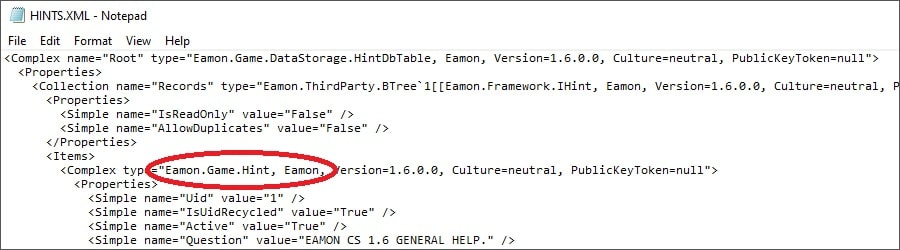
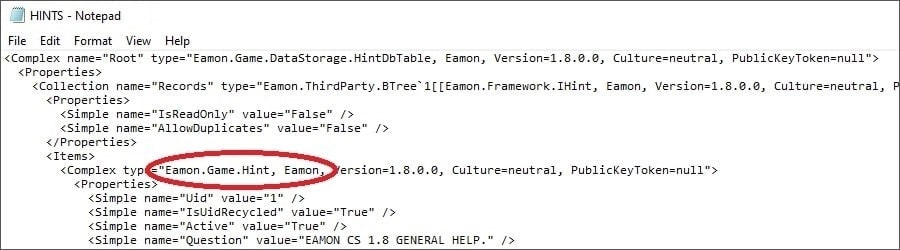
Reworking documentation to reflect Eamon CS 1.8.0 changes.

diff --git a/pages/TechnicalPaper/TechnicalPaper.html b/pages/TechnicalPaper/TechnicalPaper.html
@@ -141,7 +141,7 @@
       Manager is what "executes" the plugin, not the calling C#
       environment.&nbsp; At the bottom of the software stack, you have
       Polenter.SharpSerializer.dll which handles loading and saving of the
-      game's textfiles and Eamon.dll which holds code common to all ECS
+      game's datafiles and Eamon.dll which holds code common to all ECS
       plugins.&nbsp; EamonRT.dll contains the vanilla game engine used by all
       non-customized adventures.&nbsp; For customized adventures, the game
       plugin (e.g., TheBeginnersCave.dll) contains custom code specific to that
@@ -153,8 +153,8 @@
     <p>The source code for Plugin Managers and system plugins resides in the
       appropriate directory under System; for adventures, it is in the
       adventure-specific directory under Adventures.</p>
-    <p>The Main Hall textfiles reside in System\Bin, making them easily
-      accessible to all plugins.&nbsp; Game-specific textfiles (both original
+    <p>The Main Hall datafiles reside in System\Bin, making them easily
+      accessible to all plugins.&nbsp; Game-specific datafiles (both original
       and save game) reside under Adventures in their respective game
       directories.</p>
     <p>Here is a final note on the architectural differences between ECS Desktop
@@ -162,8 +162,8 @@
       directory and are loaded by EamonPM.WindowsUnix.dll only when needed (and
       reused once loaded).&nbsp; In contrast, when building
       EamonPM.Android-Signed.apk, all plugins are statically linked in, and all
-      textfiles are embedded, producing a monolithic application.&nbsp; When
-      delivering the .apk onto the mobile device, the textfiles copy (when
+      datafiles are embedded, producing a monolithic application.&nbsp; When
+      delivering the .apk onto the mobile device, the datafiles copy (when
       appropriate) to the device's file system - the plugins remain part of the
       application.&nbsp; In spite of this, the plugin managers are very similar
       internally.</p>
@@ -443,7 +443,7 @@
         see what's available to you.</li>
       <br>
       <li>"HINTS" gives you a list of hints for the current adventure. You
-        should always carefully read EAMON CS 1.7 GENERAL HELP and EAMON CS 1.7
+        should always carefully read EAMON CS 1.8 GENERAL HELP and EAMON CS 1.8
         NEW COMMANDS as these hints may be subtly different than their Eamon
         Deluxe counterparts. Consider the following:</li>
       <br>
@@ -472,13 +472,15 @@
       improvements made to individual adventures can be pushed back into the
       base framework for use by all games. As time goes on, the system will grow
       in flexibility and power.</p>
-    <p>The textfile format used by Eamon CS deserves an explanation. The game
-      produces ASCII XML files that represent C# object graphs, a radical data
-      storage paradigm shift. These files also play a critical role in the
-      development of customized adventures. Take a look in the MONSTERS.XML file
-      in Test Adventure (a non-customized adventure), and you will see the
+    <p>The datafile format used by Eamon CS deserves an explanation. The game
+      produces ASCII XML files representing C# object graphs; each file is further
+      gzipped in its own archive to conserve space. If needed, you can open these
+      files using the 7-Zip utility and right-click to get a context menu to View
+      or Edit.  In addition to storing data, these files play a critical role in
+      the development of customized adventures. Take a look in the MONSTERS.DAT
+      file in Test Adventure (a non-customized adventure), and you will see the
       serialized class is Eamon.Game.Monster (from Eamon.dll). But in The
-      Beginner's Cave, you will see it's TheBeginnersCave.Game.Monster (from
+      Beginner's Cave, you will see its TheBeginnersCave.Game.Monster (from
       TheBeginnersCave.dll). These are two different classes, the second is a
       subclass of the first, and implements custom code that is explicitly used
       by The Beginner's Cave. Now compare the batch file EditTestAdventure.bat,
@@ -491,12 +493,12 @@
       least this gives you an idea of how it works.</p>
     <p>With BASIC Eamons that use files containing just data, you can bypass the
       Dungeon Designer program altogether and build these files by hand. You
-      should avoid this practice in Eamon CS due to the specialized textfile
-      format. The EamonDD program is instrumental in producing textfiles of the
+      should avoid this practice in Eamon CS due to the specialized datafile
+      format. The EamonDD program is instrumental in producing files of the
       correct format, and you should rely on it to do so. However, you can still
-      manually tweak the textfiles with your favorite editor. Just be very
-      careful not to violate the file format, as the
-      Polenter.SharpSerializer.dll library can be picky.</p>
+      manually tweak the datafiles with 7-Zip. Just be very careful not to
+      violate the file format, as the Polenter.SharpSerializer.dll library can
+      be picky.</p>
     <p>The EamonRT.dll base adventure runtime takes the form of a Finite State
       Machine (FSM). For those unfamiliar, this is a technique used to model
       complex program behavior. The main game loop is 15 lines long; all complex
@@ -748,8 +750,8 @@
       custom classes, complete with matching interfaces (if needed), based on
       many classes in the Eamon, EamonDD or EamonRT libraries. These generated
       classes appear in the selected adventure, and then you are free to add
-      your custom code. For any class with a corresponding .XML file (e.g.,
-      Room.cs and ROOMS.XML), the .XML file will be updated to reflect the newly
+      your custom code. For any class with a corresponding .DAT file (e.g.,
+      Room.cs and ROOMS.DAT), the .DAT file will be updated to reflect the newly
       added class.</p>
     <p>While the code generator works great with classes that fit the template,
       it may fail with others that don't, so this comes with a caveat. <i>Always
@@ -870,8 +872,8 @@
       you have classes that are reliant on explicitly deleted interfaces your
       game will not compile until the classes are fixed or removed. If you
       delete classes, any paired interfaces will automatically delete as well.
-      If the removed class has a corresponding .XML file (e.g., Room.cs and
-      ROOMS.XML) it will be updated to reflect the appropriate parent class.
+      If the removed class has a corresponding .DAT file (e.g., Room.cs and
+      ROOMS.DAT) it will be updated to reflect the appropriate parent class.
       There is no undoing this operation so you should back up your work if
       there is a chance you'll change your mind.</p>
     <p>The following example demonstrates the removal of several classes from
@@ -898,7 +900,7 @@
     </div>
     <br>
     <ol start="3">
-      <li>One of the deleted classes, Hint.cs, has a matching HINTS.XML file.
+      <li>One of the deleted classes, Hint.cs, has a matching HINTS.DAT file.
         Notice that the data type is no longer WalledCityOfDarkness.Game.Hint
         but was reverted to the parent class Eamon.Game.Hint.</li>
     </ol>
